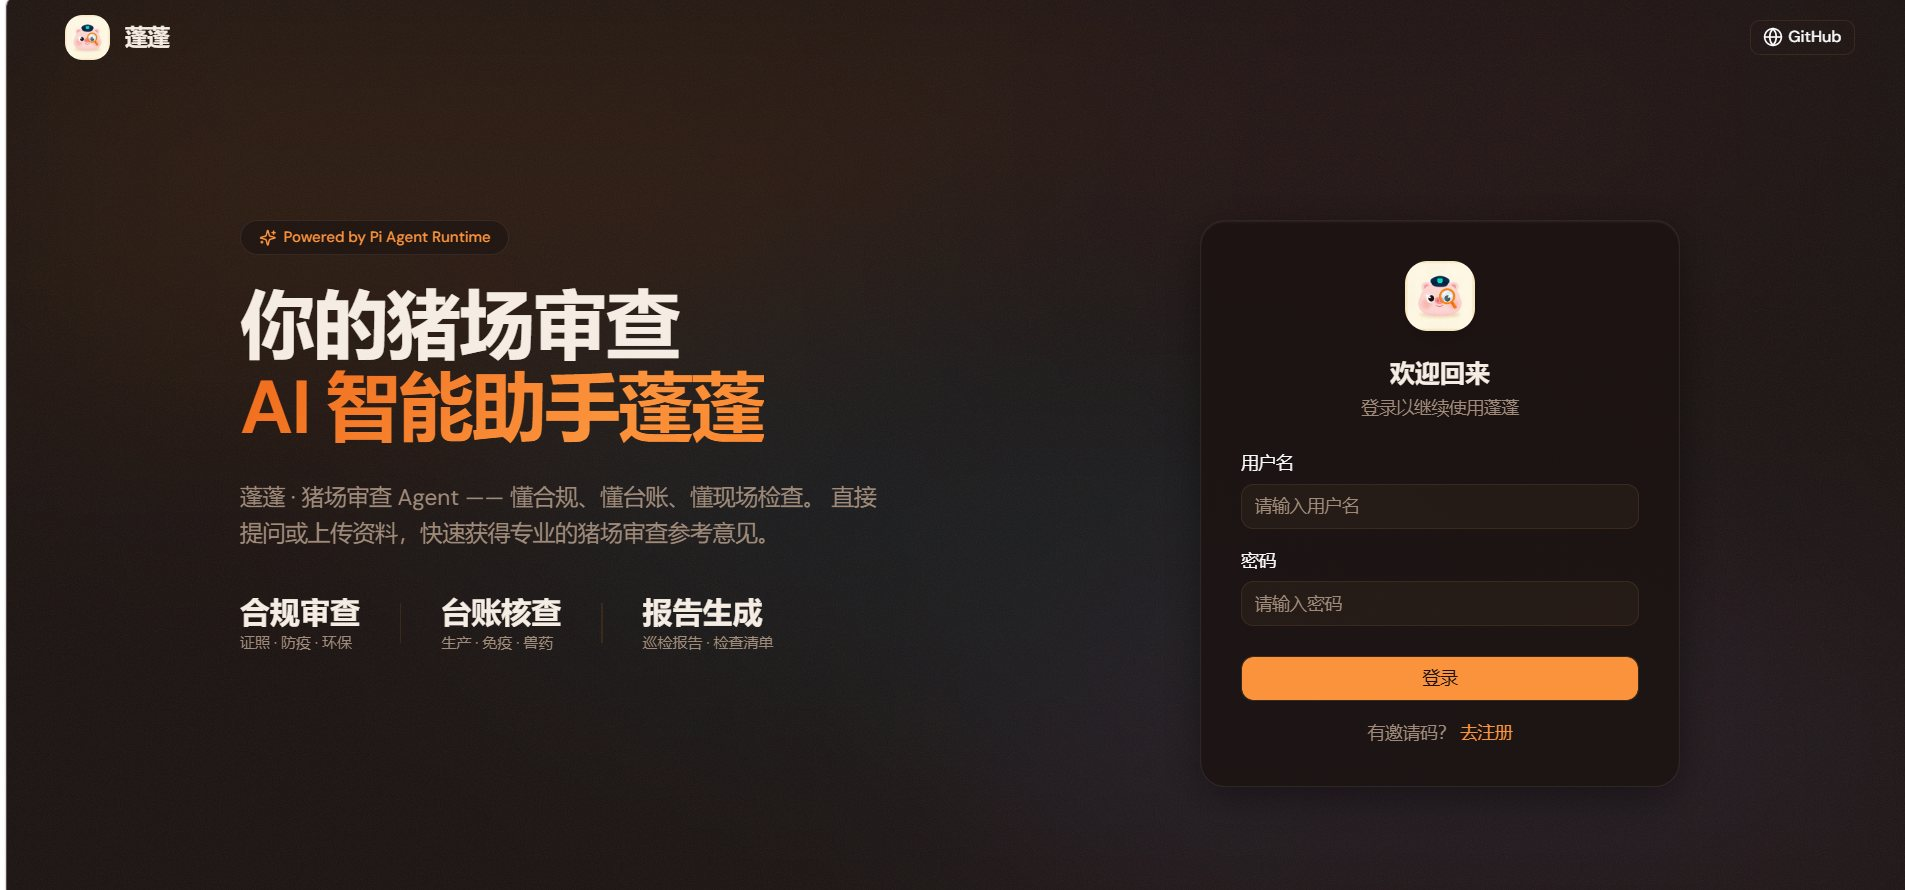
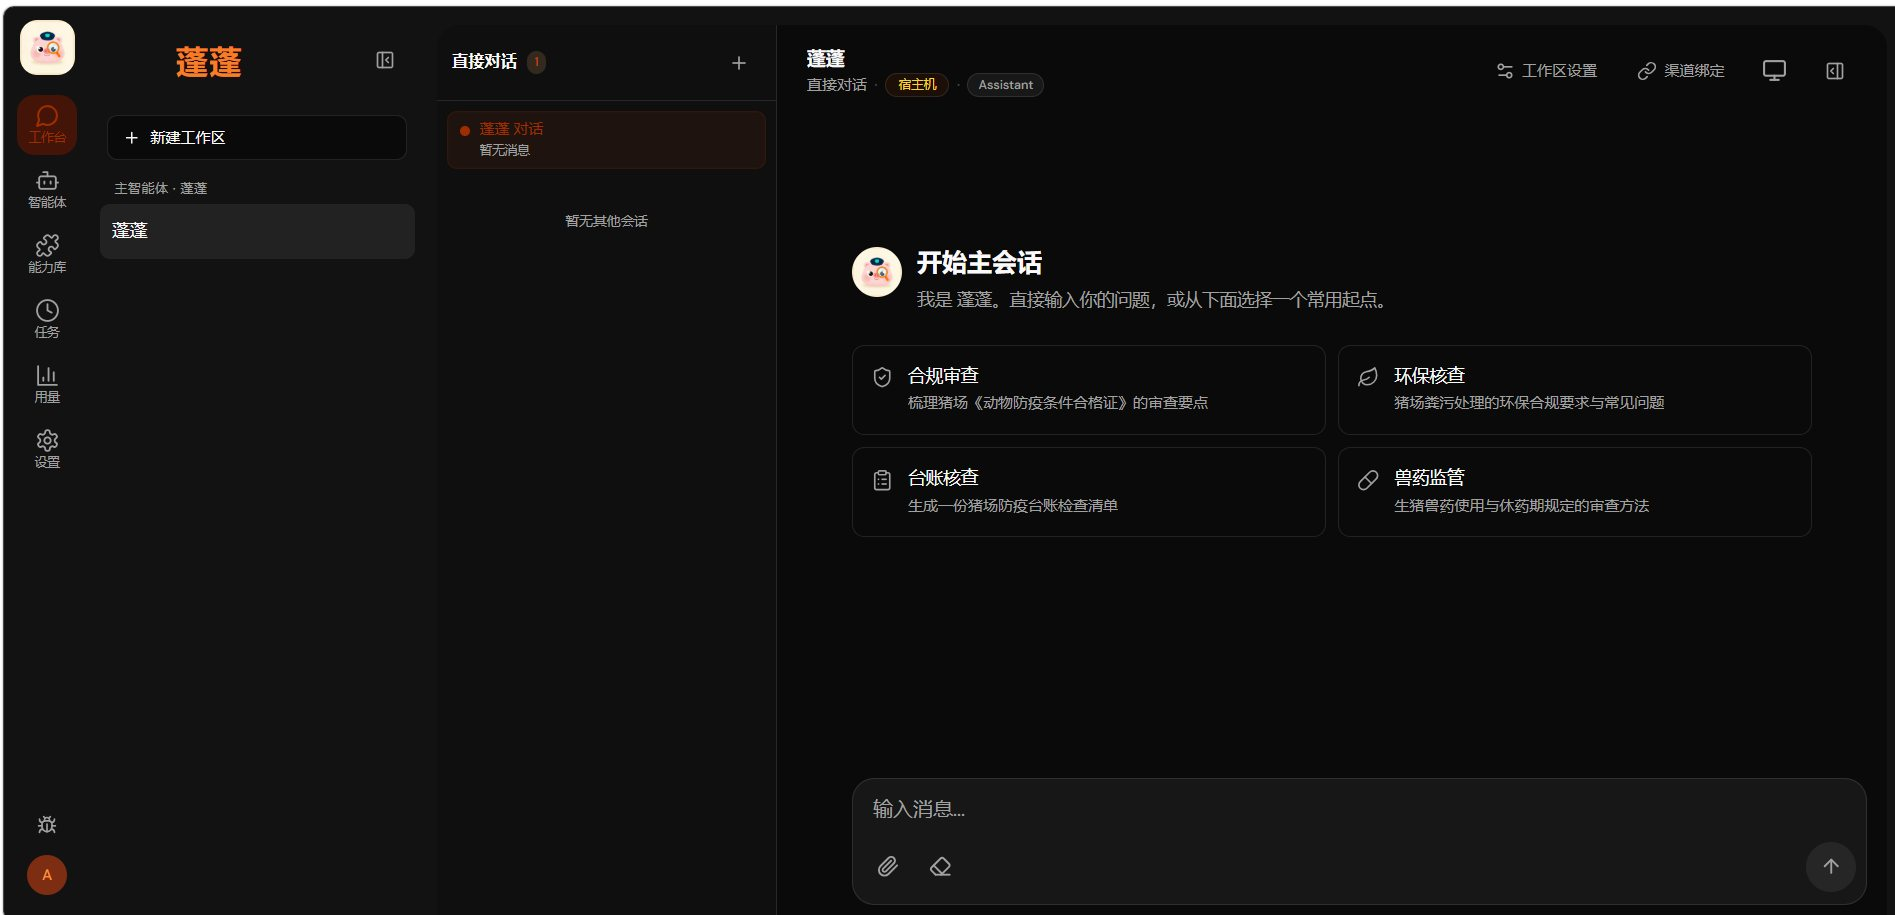
docs: fix swapped screenshot files

diff --git a/README.md b/README.md
@@ -24,7 +24,7 @@
 ## 界面预览
 
 <p align="center">
-  <img src="docs/screenshots/login.png" width="820" alt="蓬蓬登录页" />
+  <img src="docs/screenshots/login.jpg" width="820" alt="蓬蓬登录页" />
   <br>
   <sub>登录页 —— 多用户与邀请码注册机制，支持 PWA 添加到主屏幕</sub>
 </p>
